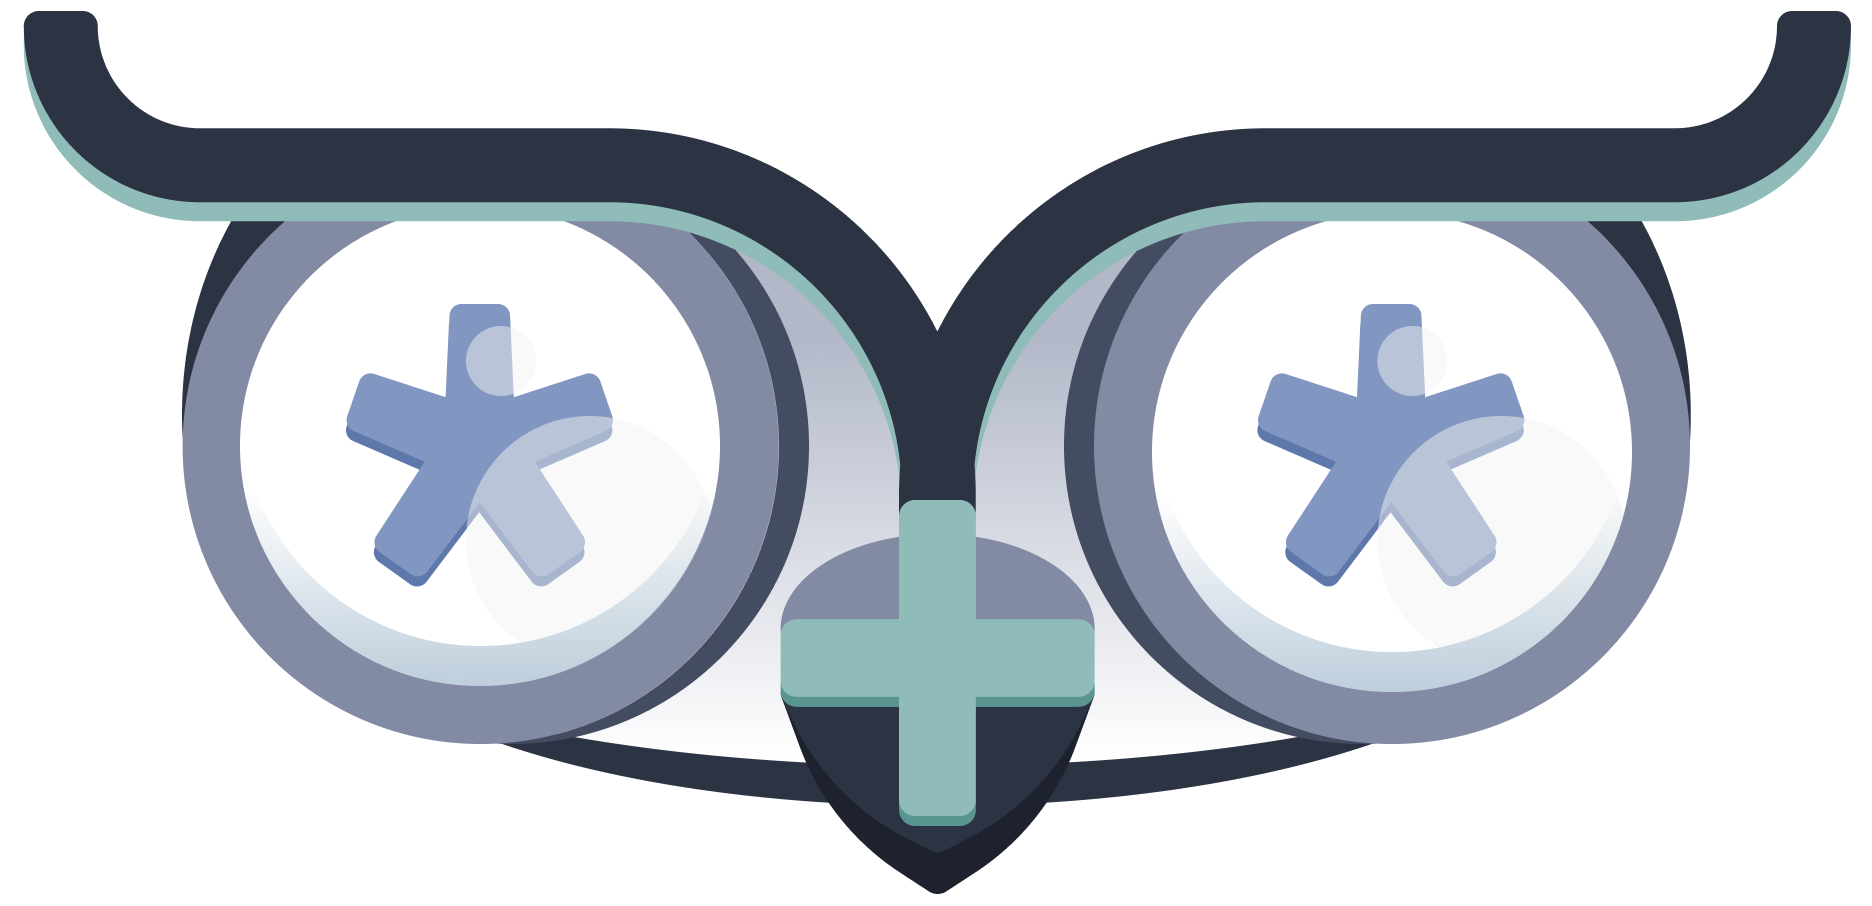
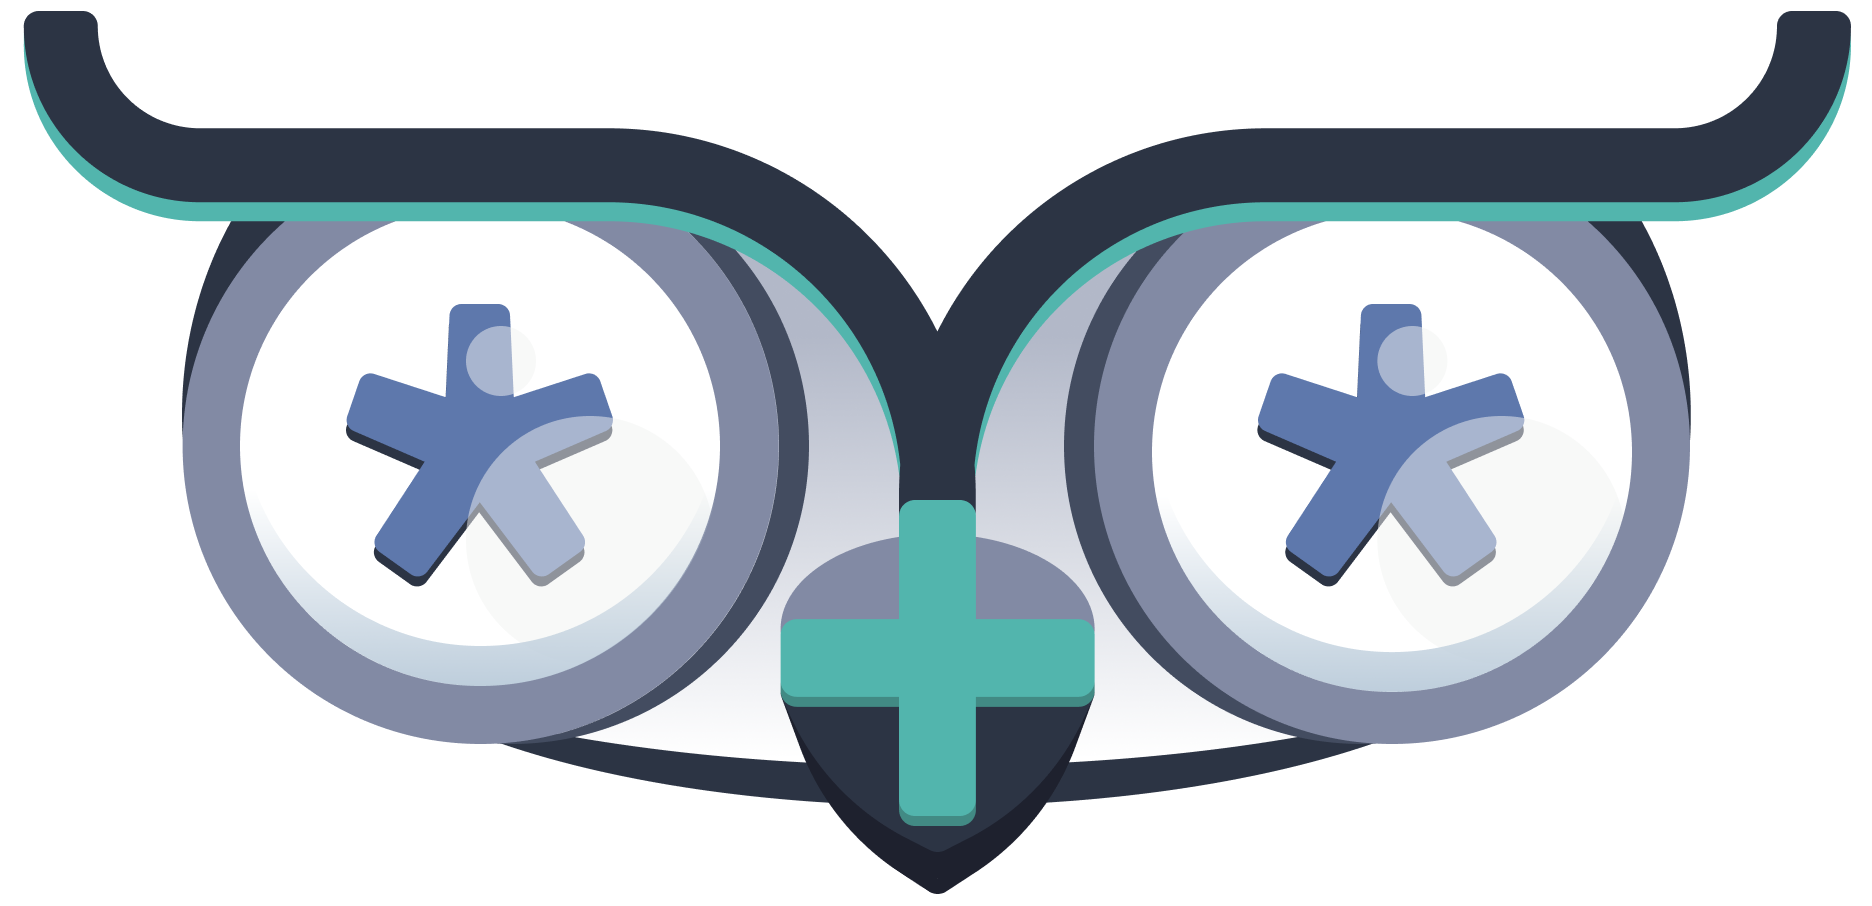
another style change

diff --git a/src/styles/theme.scss b/src/styles/theme.scss
@@ -28,14 +28,14 @@ body.light {
   --card-bg: var(--gray-100);
   --card-border: var(--gray-300);
 
-  --text-link: var(--blue-300);
-  --text-code: var(--blue-300);
+  --text-link: var(--blue-200);
+  --text-code: var(--blue-200);
 
   --tag-bg: var(--green-200);
   --tag-text: var(--gray-500);
   --tag-hover: var(--green-200);
 
-  --toggle-thumb: var(--blue-300);
+  --toggle-thumb: var(--green-200);
 }
 
 body.dark {
@@ -57,9 +57,9 @@ body.dark {
   --text-link: var(--green-200);
   --text-code: var(--green-200);
 
-  --tag-bg: var(--blue-300);
+  --tag-bg: var(--blue-200);
   --tag-text: var(--gray-100);
-  --tag-hover: var(--blue-300);
+  --tag-hover: var(--blue-200);
 
   --toggle-thumb: var(--green-200);
 }

diff --git a/src/styles/vars.scss b/src/styles/vars.scss
@@ -9,11 +9,8 @@
   --gray-500: #2c3444;
   --gray-600: #1e212e;
 
-  --green-200: #8fbcb8;
-  --green-300: #5a9691;
-
-  --blue-200: #8196c1;
-  --blue-300: #5e78ac;
+  --green-200: #52b5ad;
+  --blue-200: #5e78ac;
 
   --sans-serif: proxima-nova, system-ui, -apple-system, BlinkMacSystemFont,
     'Segoe UI', 'Roboto', 'Helvetica Neue', 'Arial', sans-serif;
